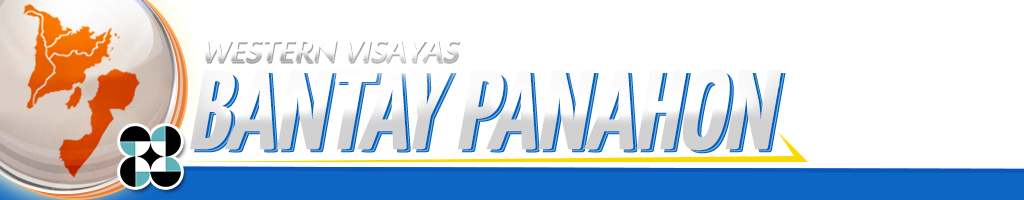
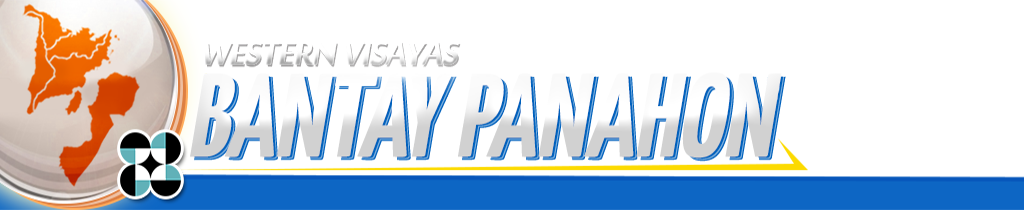
Updated layout to have thumbsize controls

diff --git a/css/screen.css b/css/screen.css
@@ -70,7 +70,7 @@ img {
 	display:block;
 	float:left;
 	margin:0 0 0 1px;
-	padding:3px 10px;
+	padding:10px;
 	text-align:center;
 	background:#0089E9;
 	color:#FFF;

diff --git a/css/style.css b/css/style.css
@@ -77,7 +77,7 @@ body {
 #banner {
 	display:block;
     float: left;
-    height: 200px;
+    height: 210px;
 }
 
 #menu ul{
